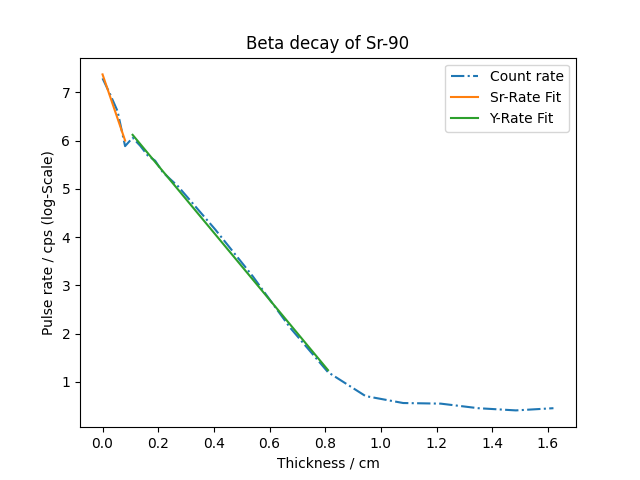
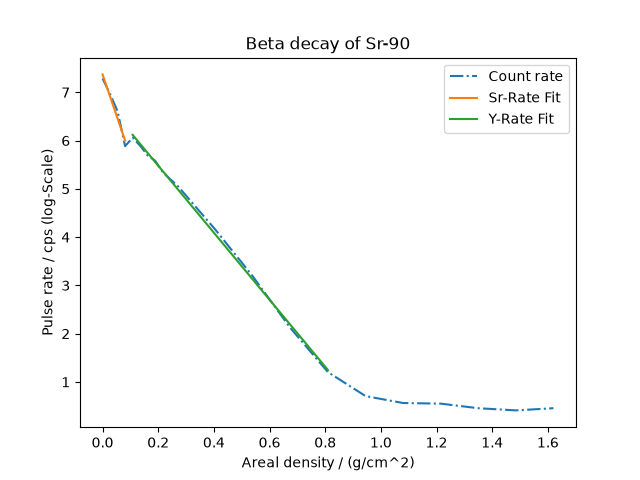
Regenerate Beta absorption with header-row hint and areal-density axis (#16)
Refs computor-org/issues#515
Refs computor-org/issues#514

diff --git a/examples/python/itpcp.pgph.py.week3_summary/content/index_de.md b/examples/python/itpcp.pgph.py.week3_summary/content/index_de.md
@@ -43,13 +43,13 @@ In der folgenden Aufgabe sollen die Massenabsorptionskoeffizienten von Strontium
    * Spalte 1: Dicke (mm)
    * Spalte 2: Messdauer (min)
    * Spalte 3: Anzahl Impulse
-   Lies das File mit `np.loadtxt` ein und speichere die jeweiligen Schichtdicken, Messdauern und Impulse als NumPy-Arrays mit den Variablennamen `thickness`, `t` und `N`.
+   Lies das File mit `np.loadtxt` ein und speichere die jeweiligen Schichtdicken, Messdauern und Impulse als NumPy-Arrays mit den Variablennamen `thickness`, `t` und `N`. Die Werte sind durch Kommas getrennt, und die erste Zeile ist eine Kopfzeile; verwende deshalb `delimiter=","` und `skiprows=1`.
 
 2. Berechne die Zählraten aus `N` und `t` in counts per second (cps) und speichere sie im Array `I`. Beachte dabei, dass die Zeiteinheit im Datenfile **Minuten** ist.
 3. Logarithmiere die Zählraten.
 4. Um die Formel mit der logarithmierten Zählrate fitten zu können, musst du das Array `thickness` noch mit der Dichte von Aluminium multiplizieren. Nimm hierfür eine Dichte von $\rho$ = 2.70 g/cm³ an (achte auf die richtige Einheitenumwandlung!).
 5. Plotte die logarithmierten Zählraten in Abhängigkeit von $\rho\cdot d$. Verwende eine strichpunktierte Linie und gib den Daten das Label `Count rate`.
-6. Beschrifte die x-Achse mit `Thickness / cm` und die y-Achse mit `Pulse rate / cps (log-Scale)`. Gib der Graphik den Titel `Beta decay of Sr-90`.
+6. Beschrifte die x-Achse mit `Areal density / (g/cm^2)` und die y-Achse mit `Pulse rate / cps (log-Scale)`. Gib der Graphik den Titel `Beta decay of Sr-90`.
 7. Im Plot wird dir auffallen, dass die Datenkurve an einer bestimmten Stelle einen Knick aufweist. Dies ist jener Punkt, an dem die maximale Reichweite der Sr-90-Strahlung erreicht ist und nur noch die höherenergetische Y-90-Strahlung das Material durchdringen kann. Identifiziere die Position des Knicks anhand der Datenpunkte.
 8. Um die Massenabsorptionskoeffizienten von jeweils Sr-90 und Y-90 in Aluminium bestimmen zu können, musst du nun links und rechts des Knicks 2 lineare Fits durchführen. Geh folgendermaßen vor:
     * Erstelle mittels Indizierung zwei Arrays `Sr_rate` und `thickness_Sr` für den Bereich links des Knicks sowie `Y_rate` und `thickness_Y` für den Bereich rechts.

diff --git a/examples/python/itpcp.pgph.py.week3_summary/content/index_en.md b/examples/python/itpcp.pgph.py.week3_summary/content/index_en.md
@@ -43,13 +43,13 @@ In the following task, the mass absorption coefficients of strontium-90 and yttr
    * Column 1: Thickness (mm)
    * Column 2: Measurement duration (min)
    * Column 3: Number of pulses
-   Read the file with `np.loadtxt` and save the respective layer thicknesses, measurement durations, and pulses as NumPy arrays with the variable names `thickness`, `t`, and `N`.
+   Read the file with `np.loadtxt` and save the respective layer thicknesses, measurement durations, and pulses as NumPy arrays with the variable names `thickness`, `t`, and `N`. The values are separated by commas and the first line is a header, so use `delimiter=","` and `skiprows=1`.
 
 2. Calculate the count rates from `N` and `t` in counts per second (cps) and save them in the array `I`. Note that the time unit in the data file is **minutes**.
 3. Take the logarithm of the count rates.
 4. To fit the formula with the logarithmic count rate, you need to multiply the array `thickness` by the density of aluminum. Assume a density of $\rho$ = 2.70 g/cm³ (pay attention to the correct unit conversion!).
 5. Plot the logarithmic count rates as a function of $\rho\cdot d$. Use a dash-dot line and give the data the label `Count rate`.
-6. Label the x-axis with `Thickness / cm` and the y-axis with `Pulse rate / cps (log-Scale)`. Give the graph the title `Beta decay of Sr-90`.
+6. Label the x-axis with `Areal density / (g/cm^2)` and the y-axis with `Pulse rate / cps (log-Scale)`. Give the graph the title `Beta decay of Sr-90`.
 7. In the plot, you will notice that the data curve has a kink at a certain point. This is the point at which the maximum range of the Sr-90 radiation is reached and only the higher-energy Y-90 radiation can still penetrate the material. Identify the position of the kink based on the data points.
 8. To determine the mass absorption coefficients of Sr-90 and Y-90 in aluminum, you need to perform 2 linear fits to the left and right of the kink. Proceed as follows:
     * Using indexing, create two arrays, `Sr_rate` and `thickness_Sr` for the region to the left of the kink, and two arrays `Y_rate` and `thickness_Y` for the region to the right.

diff --git a/README.md b/README.md
@@ -28,8 +28,8 @@ remain available when hosted Computor workspaces are full. Codespaces does not r
 
 The source snapshot is
 `git@gitlab.tugraz.at:codeability/development/examples.git` at
-[`bc05fc4d47f4cfb2bd86c81893f4c72838334762`](https://gitlab.tugraz.at/codeability/development/examples/-/commit/bc05fc4d47f4cfb2bd86c81893f4c72838334762)
-(2026-10-29T21:28:28+01:00; “Merge branch 'l10n/english-identifiers' into 'main'”). Each example keeps its upstream authors,
+[`db66ef6740065a76d554af9192cd1ac2386abbec`](https://gitlab.tugraz.at/codeability/development/examples/-/commit/db66ef6740065a76d554af9192cd1ac2386abbec)
+(2026-11-05T15:45:49+01:00; “Merge branch 'fix/course-content-20261105' into 'main'”). Each example keeps its upstream authors,
 maintainers, links, and `license` declaration in `meta.yaml`; the current
 snapshot declares MIT for all 70 Python examples. See [`RIGHTS.md`](RIGHTS.md)
 for the generated ledger and [`LANGUAGE_AUDIT.md`](LANGUAGE_AUDIT.md) for the

diff --git a/RIGHTS.md b/RIGHTS.md
@@ -1,6 +1,6 @@
 # Rights and provenance ledger
 
-Source: `git@gitlab.tugraz.at:codeability/development/examples.git` commit `bc05fc4d47f4cfb2bd86c81893f4c72838334762`.
+Source: `git@gitlab.tugraz.at:codeability/development/examples.git` commit `db66ef6740065a76d554af9192cd1ac2386abbec`.
 
 | Example | License | Authors | Maintainers |
 | --- | --- | --- | --- |
